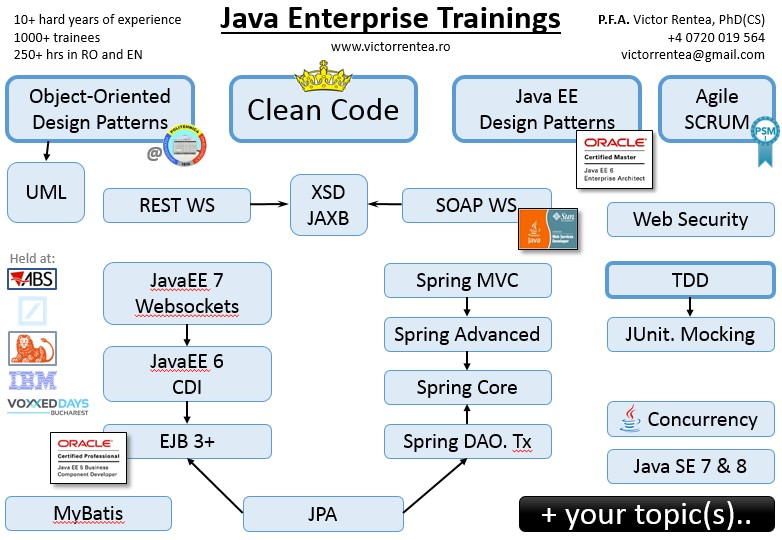
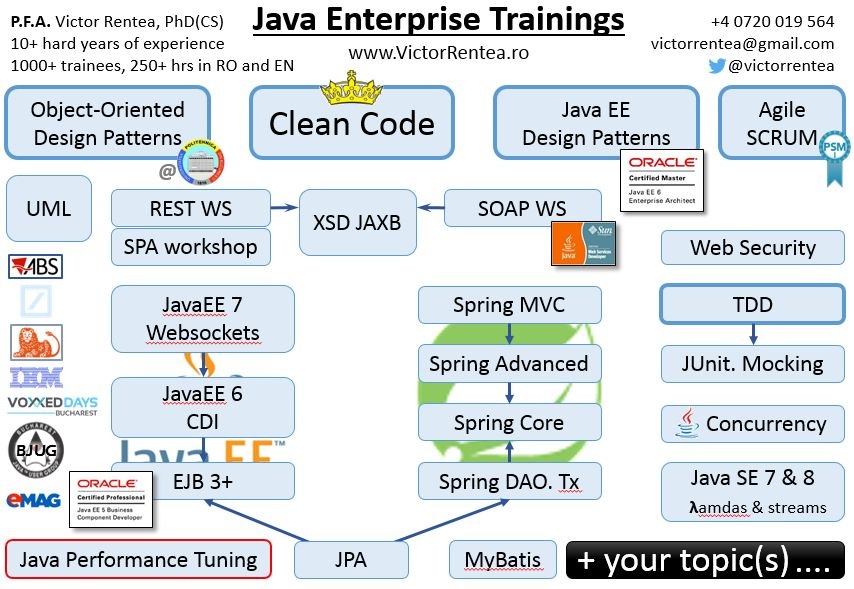
victorrentea.ro add Emag, esolutions

diff --git a/victorrentea.ro/index.html b/victorrentea.ro/index.html
@@ -164,7 +164,7 @@
         
         #rightNav li {
             width: 100px;
-            height: 26px;
+            height: 22px;
             line-height: 26px;
             background-color: rgba(200, 200, 200, 0.70);
             margin-bottom: 2px;
@@ -290,8 +290,8 @@
         }
         
         div#client-logos img {
-            width: 200px;
-            margin: 20px;
+            /*height: 80px;*/
+            margin: 15px;
         }
         /* ====== STAR ====== */
         /*
@@ -515,7 +515,7 @@
                 <span class="weight2">sa123das</span>
                 <span class="weight2">s11adaas</span>-->
             </div>
-            <h3><i>Over <span class="high">200 hours</span> of training held to over <span class="high">800 persons</span>, in Romanian and English, <span class="high">in-class and remote</span>, including in <a href="#training/object-oriented-design-patterns">academic setup</a>.</i><h3>
+            <h3><i>Over <span class="high">300 hours</span> of training held to more than <span class="high">1000 persons</span>, in Romanian and English, <span class="high">in-class and remote</span>, including in <a href="#training/object-oriented-design-patterns">academic setup</a>.</i><h3>
 
 <h3>A good training should...</h3>
             <ul class="phylosophy">
@@ -1014,6 +1014,130 @@
                     </ul>
                 </li>
                 <li>Best practices &amp; Pitfalls</li>                
+            </ul>
+        </section>
+                
+                
+        <!-- Coding for Performance  ****************************************** -->
+        <section>
+            <h2 id="training/performance-coding" code="Performance Coding" class="weight2">Performance Coding</h2>
+            <span class="duration">2-4 hours</span>
+            <p>This advanced module gives general advice on how to write high-performance code in Java. The contents aims to be just a starting point for long discussions, as I will often ask the participants how would THEY implement a certain functionality already available in JVM (example: String.intern()). That's why this module is more of a brainstorm than a classic training, and highly motivated professionals would make it a very-very-very interesting session. The discussions may easily divagate to general algorithms and macro-design decisions. Any real problems the participants bring with them are MOST WELCOME: we will dissect them together in class, discuss tradeoffs and pitfalls.</p>
+            
+            <p>The target audience has at least a couple of years of experience in Java and they like to think 'out of the box'. </p>
+
+            <p><i>2:00 Lecture+Brainstorming</i>
+            </p>
+            <ul>
+                <li>Opening Thoughts: Performance in Java Enterprise App</li>
+                <li>Effective Memory Usage
+                    <ul><li>Lazy Init, Eager Deinit</li>
+                    <li>Canonicalization, String.intern()</li>
+                    <li>Object Pools: WHY ?</li>
+                    <li>Thread Locals</li>
+                    <li>Weak, Soft References + Practice</li></ul>
+                </li>
+                <li>Effective Multi-Threading
+                    <ul>
+                        <li>Amdhal's Law</li>
+                        <li>Synchronization Cost</li>
+                        <li>CPU Register Flushing</li>
+						<li>How to Avoid Synchronization</li>						
+                    </ul>
+                </li>
+                <li>Thread Pools
+                    <ul>
+                        <li>Executor Types</li>
+                        <li>Sizing the Queue</li>
+                        <li>Sizing the Thread Pool</li>
+						<li>Fork-Join-Pool (1 word)</li>						
+                    </ul>
+                </li>
+                <li>Database
+                    <ul>
+                        <li>JDBC</li>
+                        <li>JPA (+Discussions....)</li>                        			
+                    </ul>
+                </li>                
+            </ul>
+        </section>
+                
+        <!-- Java Performance Tuning  ****************************************** -->
+        <section>
+            <h2 id="training/performance-tuning" code="Performance Tuning" class="weight2">Java Performance Tuning</h2>
+            <span class="duration">1 day</span>
+            <p>You need to tune the performance of your Java applications? You don't understand the outcomes of the tunings you experimented? You want to learn how to write high-performance enterprise Java code? You want to know how to find a memory leak in a Heap Dump? Or you simply want to learn a lot about how your 'dear' JVM actually does its amazing(!!!) job?</p>
+            <p>Whatever the case, you should already have a number of years of experience in Java and the terms like CPU register, heap, stack and thread should not be strange to you.</p>
+            <p>This course is not intended to be a full reference of all the possible tuning options. Instead, the goal is for the trainees to fully understand the core concepts and principles underlying the performance of the JVM. Of course, the training explains in quite a detail the major tuning options, that 90% of the cases are enough to reach the performance goals. Multiple experiments will prove the effects of these tuning options in practice.</p>
+            <p>The trainees will be able to practice JVM monitoring and tunings on their own machines.</p>
+
+            <p><i>1 FULL day = 4:00-5:00 Talk, 3:00 exercises (on beamer and then on each one's machines)</i>
+            
+            <p><span style="text-decoration:underline">Module 1 - Intorduction to Performance</span>
+                <br/> <i>1h talk</i>
+            </p>
+            <ul>
+                <li>Measure Don't Guess</li>
+                <li>Beware of Tools</li>
+                <li>Core Measurings: Responsivity, Throughput, Load, Work Load, Utilization</li>
+                <li>Gowing Slower to go Faster: discharge the bottleneck</li>                   
+                <li>Finding the Dominating Consumer algorithm</li>
+                <li>CPU counters</li>
+                <li>Time Budgeting</li>
+                <li>Stress Tests: Types</li>                
+            </ul>
+            
+            <p><span style="text-decoration:underline">Module 2 - Garbage Collector</span>
+                <br/> <i>1:30h talk, 0:30-1:00 practice</i>
+            </p>
+            <ul>
+                <li>GC Principles: Generations, Heap Fragmentation, ..</li>
+                <li>GC Algorithms
+                    <ul>
+                        <li>Serial Collector</li>
+                        <li>Parallel/Throughput Collector</li>
+                        <li>CMS Collector</li>
+                        <li>G1 Collector</li>
+                    </ul>
+                </li>
+                
+                <li>Choosing a GC: general guidelines</li>
+                <li>System.gc</li>
+                <li>Sizing for Heap, Generations, PermGen/Metaspace</li>
+                <li>Monitoring GC: jvm GC log output, jconsole, jstat, jVisualVM, HPJMeter</li>
+                <li>Tuning GC: Throughput, CMS</li>
+                <li>Thread Local Allocation Buffers</li>
+            </ul>
+            
+            <p><span style="text-decoration:underline">Module 3 - Finding Memory Leaks</span>
+                <br/> <i>30h talk, 0:30-1:00 practice</i>
+            </p>
+            <ul>
+                <li>OutOfMemoryError: Causes</li>
+                <li>Out of Heap: possible leak sources</li>
+                <li>GC Roots</li>
+                <li>Investigating Leak using Tools: a full example                    
+                    <ul>
+                        <li>Visualize the Leak (jvisualVm, hpjmeter)</li>
+                        <li>Heap Dump Analysis(jvisualvm, Eclipse MAT): largest set of instances for a class, path to nearest GC Root</li>
+                        <li>Memory Profiling (jvisualVm): How many objects were just created, how many generations, by who?</li>
+                    </ul>
+                </li>
+                <li>GC Recap Quiz</li>
+            </ul>
+            
+             <p><span style="text-decoration:underline">Module 4 - Just-In-Time Compiler</span>
+                <br/> <i>1h talk, 0:15 practice</i>
+            </p>
+            <ul>
+                <li>Interpreted vs Compiled Code</li>
+                <li>Hot Spot Compiler</li>
+                <li>Optimizations: Static vs Dynamic</li>
+                <li>Example: Dynamic Optimizations with Escape Analysis</li>
+                <li>JIT Compiler: Levels, Monitoring</li>
+                <li>Code Cache</li>
+                <li>General Coding Advices</li>
+                <li>Leftovers.. (upon request)</li>
             </ul>
         </section>
 
@@ -1539,18 +1663,20 @@
             
             <div id="client-logos">
                 <!--<img alt="ico" src="client-ibm.png" />-->
-                <img alt="ABS" src="client-abs.png" />
-                <img alt="UPB" src="politehnica.jpg" />
-				<img alt="Deutche Bank" src="deutche-bank.jpg" />
-				<img alt="ING Bank" src="ing.jpg" />&nbsp;&nbsp;&nbsp;
-				<span style="font-family:'Arial Black', Gadget, sans-serif; font-size:38pt; " alt="IBM logo" title="Logo issues">IBM</span>
+                <img alt="ABS" width="150" src="client-abs.png" />
+				<img alt="eMAG" width="140" src="client-emag.png" />
+                
+				<img alt="Deutche Bank" width="140" src="deutche-bank.jpg" />
+				<img alt="ING Bank" width="140" src="ing.jpg" />
+				<span style="font-family:'Arial Black', Gadget, sans-serif;color:rgb(38,101,200); font-size:30pt; " alt="IBM logo" title="Logo issues">IBM</span>
 				<br />
-                <img alt="Voxxed Days Bucharest" src="voxxed-bucharest.png" />
-                <img alt="Bucharest Java User Group" src="bjug.png" />
+				<img alt="UPB" width="120" src="politehnica.jpg" />
+                <img alt="Voxxed Days Bucharest" width="200" src="voxxed-bucharest.png" />
+                <img alt="Bucharest Java User Group" width="120" src="bjug.png" />
                 <br />
-				via: 
-                <img alt="ProManagement Training Center" src="client-pro-management.png" />
-				<img alt="Brain Concert" src="brain-concert.jpg" />
+				<a href="http://www.esolutions.ro" width="120" target="_blank"><img alt="eSolutions" src="client-esolutions.png" /></a>
+                <img alt="ProManagement Training Center" width="160" src="client-pro-management.png" />
+				<img alt="Brain Concert" width="120" src="brain-concert.jpg" />
             </div>
             
             <p>I gained the majority of my training experience inside IBM, holding internal trainings to fellow employees. However, in mid 2015 I've began holding trainings independently to interested companies. Their references are available upon request.
